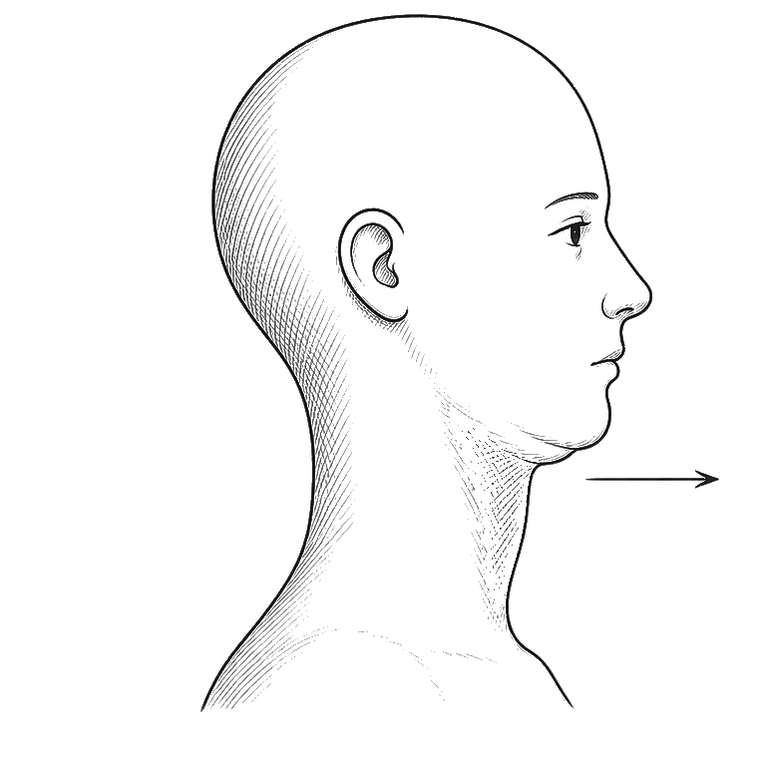
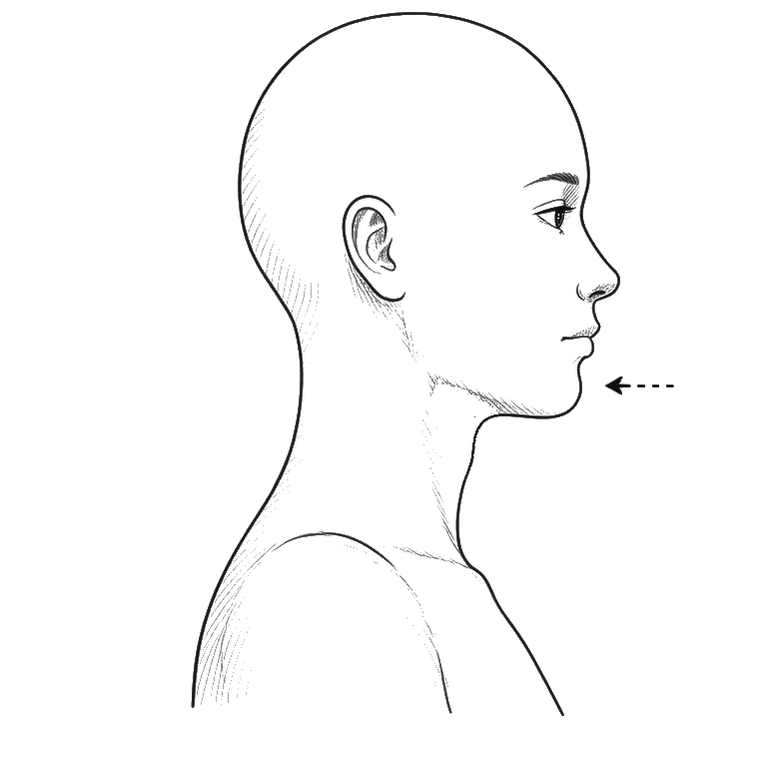
chore(version): v0.170.1, el dibujo nuevo de «Barbilla atrás»
Ez dibujó otra vez «Barbilla atrás» (Genspark, carpeta «Glifos de
ejercicios»): el anterior llevaba la flecha delante de la barbilla y hacia
fuera, el movimiento contrario al que pide. Ingerido con
ingest-glifos-ejercicio.js --fusionar; solo cambian sus dos máscaras.

El PNG trae el «transparente» pintado como un damero casi blanco (247-253,
alfa opaco): el SUELO de 238 lo quita sin velo. Tinta medida: media 3,7 y
1,32 % de trazo, en el borde bajo del juego (p10 3,7 · p50 5,8), porque es
una cabeza con pocos trazos; con el mismo peso de línea que sus vecinos, así
que sin ACLARADO. Suite entera: 677 en verde.

diff --git a/index.html b/index.html
@@ -3,7 +3,7 @@
 <head>
   <meta charset="UTF-8" />
   <meta name="viewport" content="width=device-width, initial-scale=1.0" />
-  <title>PACE · Foco · Cuerpo — v0.170.0</title>
+  <title>PACE · Foco · Cuerpo — v0.170.1</title>
   <link rel="manifest" href="/manifest.webmanifest">
   <link rel="icon" type="image/png" sizes="192x192" href="/icons/icon-192.png">
   <link rel="icon" type="image/png" sizes="512x512" href="/icons/icon-512.png">
@@ -6136,7 +6136,7 @@ const LS_KEY = 'pace.state.v2';
 
 
 
-const PACE_VERSION = 'v0.170.0';
+const PACE_VERSION = 'v0.170.1';
 
 
 

diff --git a/app/state-core.jsx b/app/state-core.jsx
@@ -18,7 +18,7 @@ const LS_KEY = 'pace.state.v2';
 /* s104: OJO — llevaba v0.46.0 desde s101 (footer del sidebar + export JSON
    mentían la versión). Entra al checklist de bump de cada cierre junto a
    <title> y CACHE_NAME; automatizarlo en el build queda anotado. */
-const PACE_VERSION = 'v0.170.0';
+const PACE_VERSION = 'v0.170.1';
 
 /* Duracion del toast de logro desbloqueado (s77b). 3000ms da tiempo a leer
    sin interrumpir el ritmo de la sesion. Antes 5000ms se sentia largo. */

diff --git a/PACE.html b/PACE.html
@@ -3,7 +3,7 @@
 <head>
   <meta charset="UTF-8" />
   <meta name="viewport" content="width=device-width, initial-scale=1.0" />
-  <title>PACE · Foco · Cuerpo — v0.170.0</title>
+  <title>PACE · Foco · Cuerpo — v0.170.1</title>
   <link rel="manifest" href="/manifest.webmanifest">
   <link rel="icon" type="image/png" sizes="192x192" href="/icons/icon-192.png">
   <link rel="icon" type="image/png" sizes="512x512" href="/icons/icon-512.png">

diff --git a/sw.js b/sw.js
@@ -1,4 +1,4 @@
-const CACHE_NAME = 'pace-v0.170.0';
+const CACHE_NAME = 'pace-v0.170.1';
 /* s149: el export offline (PACE_standalone) SALE del precache. Es un export
    BAJO DEMANDA congelado a proposito (decision s134): estaba en v0.71.0 con la
    app en v0.81.0, asi que el SW metia un artefacto DIEZ versiones viejo en la

diff --git a/CHANGELOG.md b/CHANGELOG.md
@@ -6,6 +6,7 @@ El changelog largo, hasta v0.135.0, está en
 
 | Versión | Fecha | Qué cambia |
 |---|---|---|
+| v0.170.1 | 2026-10-15 | «Barbilla atrás» estrena el dibujo de Ez: la flecha empuja la barbilla hacia atrás, como pide el ejercicio (el anterior la llevaba al revés) |
 | v0.170.0 | 2026-10-15 | Estadísticas abre en «Hoy»: los totales de hoy y el menú del día parada a parada (hecha, saltada, ahora y lo que viene) o, por libre, tus pausas de hoy con su hora. Mes y Año llevan candado sin PACE completo (abiertos para todos hasta v1) |
 | v0.169.0 | 2026-10-15 | El calendario se mantiene solo: con «Mantenerlo al día solo» en «Al calendario», el día de «A tu ritmo» se corrige solo en el calendario mientras PACE está abierto y cada pausa avisa (Android ya; Google y Outlook en cuanto estén los ids). En «A tu ritmo», «Una hora» y «Dos horas» acaban a su hora con cualquier aro, también al recolocar (las reuniones cuentan dentro); la pausa larga pide 75 min de foco desde la anterior; el miércoles tiene una sola larga, adelantada; y el «AHORA» de una pausa se lee en oscuro. Arreglado: el service worker guardaba las respuestas de Google y Microsoft y las reuniones nuevas no llegaban |
 | v0.168.0 | 2026-10-15 | La home ya no se puede quedar corrida de lado al cerrar una pausa: el resplandor del sol le dejaba ancho de sobra que cualquier «llevar a la vista» desplazaba. En la app no cambia nada más; entra la página con la que Ez eligió las series de pausas con lógica |

diff --git a/STATE.md b/STATE.md
@@ -1,6 +1,6 @@
 # PACE · Estado
 
-**Versión:** v0.170.0 · 15 de octubre de 2026.
+**Versión:** v0.170.1 · 15 de octubre de 2026.
 
 ## Dónde estamos
 
@@ -186,7 +186,7 @@ para los `*.safari.spec.js` y la home sin scroll, sin sonido (ese WebKit no trae
     dibujo equivocado, «Rana» y «Pica en escritorio», 7 logros con el dibujo equivocado o repetido
     y 18 sin dibujo propio;
   - entraron en v0.165.0 las voces en inglés y cinco dibujos: «Primer día», «Cuarto creciente»,
-    «Solsticio invierno», «Hueco abdominal» y «Elevación de puntas».
+    «Solsticio invierno», «Hueco abdominal» y «Elevación de puntas»; en v0.170.1, «Barbilla atrás».
 - Oír la voz grave de Respira en pacegrass.app, en el PC y en el móvil, con música y sin ella: desde
   v0.167.0 entra y sale con un fundido (sesiones-10).
 - Oír los cuencos nuevos de Mueve y Estira en el portátil y en el móvil y decir si el volumen va bien.

diff --git a/docs/traspaso/LEEME.md b/docs/traspaso/LEEME.md
@@ -135,8 +135,8 @@ carpeta principal puede ir por detrás de `origin/main`: `git pull` antes de tra
   dibujo de la rutina sale muy pequeño: unos 90 px de alto en 1920×1080 con la escala de Windows al
   125 % (Brave, zoom 100 %), con mucho aire alrededor. Cambia lo que se ve: opciones pintadas sobre la
   app real y Ez elige.
-- **Los 8 dibujos de ejercicio que faltan** (Ez los hace en Genspark con referencias de
-  `archivos/glifos/referencias/`): barbilla-atras, hueco-en-silla, 90-90, palmas-al-suelo,
+- **Los 7 dibujos de ejercicio que faltan** (Ez los hace en Genspark con referencias de
+  `archivos/glifos/referencias/`; barbilla-atras entró en v0.170.1): hueco-en-silla, 90-90, palmas-al-suelo,
   apretar-gluteos, sentadilla-de-cuadriceps, rana y pica-en-escritorio. Al ingestarlos, si traen más
   rayado que el resto, `ACLARADO` en `scripts/ingest-glifos-ejercicio.js` (Ez quiere la intensidad de
   los demás).

diff --git a/docs/traspaso/archivos/encargos-14oct/PROMPTS_IMAGENES.md b/docs/traspaso/archivos/encargos-14oct/PROMPTS_IMAGENES.md
@@ -34,7 +34,8 @@ cómo queda en la app antes de publicar nada.
 
 ## Por dónde empezar
 
-1. Barbilla atrás y Elevación de puntas: enseñan el movimiento contrario al que piden.
+1. ~~Barbilla atrás y Elevación de puntas: enseñan el movimiento contrario al que piden.~~ Hechos:
+   Elevación de puntas en v0.165.0 y Barbilla atrás en v0.170.1.
 2. Rana: la única tarjeta de la biblioteca sin dibujo.
 3. Hueco en silla, Hueco abdominal y 90/90.
 4. Los logros Primer día y Cuarto creciente, de los primeros que gana todo el mundo.
@@ -45,7 +46,7 @@ cómo queda en la app antes de publicar nada.
 
 ## 1. Ejercicios con el dibujo equivocado (8)
 
-### 1. Barbilla atrás · Alta
+### 1. Barbilla atrás · Alta · HECHO en v0.170.1 (15 oct.)
 
 La flecha está delante de la barbilla y apunta hacia delante, lejos del cuello: enseña el movimiento contrario al que pide.
 

diff --git a/README.md b/README.md
@@ -3,7 +3,7 @@
 > Web app de productividad y salud para quien pasa muchas horas sentado.
 > Micro-intervenciones cuidadas a lo largo del día, no entrenamientos largos.
 
-**Estado:** v0.170.0 · Pre-lanzamiento
+**Estado:** v0.170.1 · Pre-lanzamiento
 **Build entregado:** `index.html` — artefacto web/PWA, instalable y offline
 **Autor:** [@ezradesign](https://github.com/ezradesign)
 **Licencia del código:** [Elastic License 2.0](./LICENSE) — ver [§ Licencia](#-licencia)
@@ -33,7 +33,7 @@ rutinas propias**, y **PWA** instalable que funciona sin conexión.
 
 ---
 
-## 📊 Estado actual (v0.170.0)
+## 📊 Estado actual (v0.170.1)
 
 | Área | Estado |
 |---|---|

diff --git a/README_EN.md b/README_EN.md
@@ -3,7 +3,7 @@
 > Productivity and wellness web app for people who spend long hours sitting.
 > Thoughtful micro-interventions throughout the day, not lengthy workouts.
 
-**Status:** v0.170.0 · Pre-launch
+**Status:** v0.170.1 · Pre-launch
 **Build delivered:** `index.html` — web/PWA artifact, installable and offline
 **Author:** [@ezradesign](https://github.com/ezradesign)
 **Code license:** [Elastic License 2.0](./LICENSE) — see [§ License](#-license)
@@ -32,7 +32,7 @@ builder**, and an installable **PWA** that works offline.
 
 ---
 
-## 📊 Current state (v0.170.0)
+## 📊 Current state (v0.170.1)
 
 | Area | State |
 |---|---|
